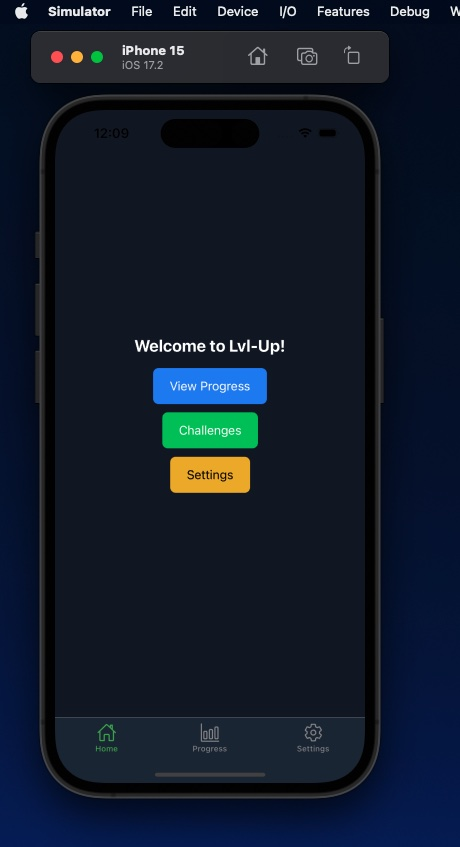
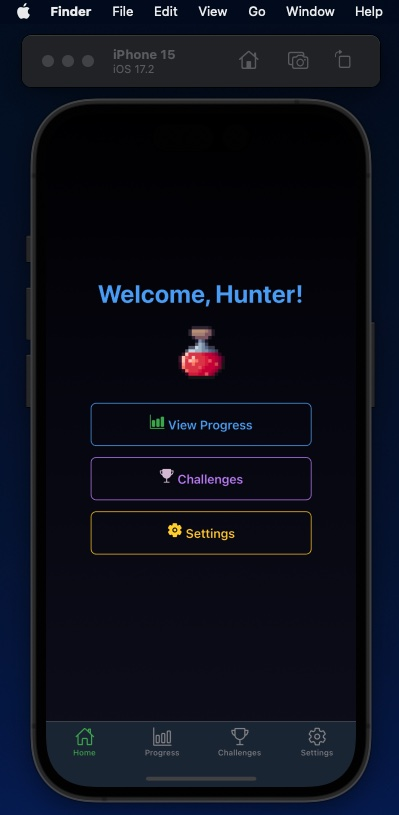
challenges (#4)
* challenges

* screen

diff --git a/expo/app/index.tsx b/expo/app/index.tsx
@@ -1,5 +1,7 @@
+import { Ionicons } from '@expo/vector-icons';
+import { LinearGradient } from 'expo-linear-gradient';
 import { useRouter } from 'expo-router';
-import { View, Text, Pressable } from 'react-native';
+import { View, Text, Pressable, Image } from 'react-native';
 
 import '../global.css';
 
@@ -7,26 +9,53 @@ export default function HomeScreen() {
   const router = useRouter();
 
   return (
-    <View className="flex-1 items-center justify-center bg-gray-900 p-6">
-      <Text className="mb-4 text-2xl font-bold text-white">Welcome to Lvl-Up!</Text>
+    <LinearGradient
+      colors={['#000000', '#0A0A1A']}
+      style={{ flex: 1 }} // Ensures it covers the full screen
+    >
+      <View className="flex-1 items-center justify-center p-6">
+        {/* Title with glowing effect */}
+        <Text className="shadow-blue-glow mb-4 text-4xl font-bold text-blue-400">
+          Welcome, Hunter!
+        </Text>
 
-      <Pressable
-        className="mb-3 rounded-lg bg-blue-500 px-6 py-3"
-        onPress={() => router.push('/progress')}>
-        <Text className="text-lg text-white">View Progress</Text>
-      </Pressable>
+        {/* Health Potion Image */}
+        <Image
+          source={require('../assets/pot.png')}
+          className="shadow-red-glow mb-6 h-24 w-24"
+          resizeMode="contain"
+        />
 
-      <Pressable
-        className="mb-3 rounded-lg bg-green-500 px-6 py-3"
-        onPress={() => router.push('/challenges')}>
-        <Text className="text-lg text-white">Challenges</Text>
-      </Pressable>
+        {/* Button Container */}
+        <View className="w-full max-w-xs gap-4">
+          {/* Progress Button */}
+          <Pressable
+            className="w-full items-center justify-center rounded-lg border border-blue-400 bg-transparent p-4 transition-all duration-200 hover:scale-105 active:scale-95"
+            onPress={() => router.push('/progress')}>
+            <Text className="text-lg font-semibold text-blue-400">
+              <Ionicons name="bar-chart" size={20} color="#4CAF50" /> View Progress
+            </Text>
+          </Pressable>
 
-      <Pressable
-        className="rounded-lg bg-yellow-500 px-6 py-3"
-        onPress={() => router.push('/settings')}>
-        <Text className="text-lg text-black">Settings</Text>
-      </Pressable>
-    </View>
+          {/* Challenges Button */}
+          <Pressable
+            className="w-full items-center justify-center rounded-lg border border-purple-400 bg-transparent p-4 transition-all duration-200 hover:scale-105 active:scale-95"
+            onPress={() => router.push('/challenges')}>
+            <Text className="text-lg font-semibold text-purple-400">
+              <Ionicons name="trophy" size={20} color="#D8BFD8" /> Challenges
+            </Text>
+          </Pressable>
+
+          {/* Settings Button */}
+          <Pressable
+            className="w-full items-center justify-center rounded-lg border border-yellow-400 bg-transparent p-4 transition-all duration-200 hover:scale-105 active:scale-95"
+            onPress={() => router.push('/settings')}>
+            <Text className="text-lg font-semibold text-yellow-400">
+              <Ionicons name="settings" size={20} color="#FFD700" /> Settings
+            </Text>
+          </Pressable>
+        </View>
+      </View>
+    </LinearGradient>
   );
 }

diff --git a/expo/app/challenges.tsx b/expo/app/challenges.tsx
@@ -1,0 +1,41 @@
+import { View, Text, Pressable, FlatList } from 'react-native';
+
+const challenges = [
+  { id: '1', title: 'Complete 5 Workouts', progress: 3, total: 5 },
+  { id: '2', title: 'Read for 30 Minutes', progress: 20, total: 30 },
+  { id: '3', title: 'Meditate for 10 Minutes', progress: 10, total: 10 },
+  { id: '4', title: 'Drink 2L of Water', progress: 1.5, total: 2 },
+];
+
+export default function ChallengesScreen() {
+  return (
+    <View className="flex-1 items-center justify-center bg-gray-900 p-6">
+      <Text className="mb-4 text-2xl font-bold text-white">Challenges</Text>
+
+      <FlatList
+        data={challenges}
+        keyExtractor={(item) => item.id}
+        renderItem={({ item }) => (
+          <View className="mb-4 w-full rounded-lg bg-gray-800 p-4">
+            <Text className="text-lg font-semibold text-white">{item.title}</Text>
+            <View className="mt-2 h-2 w-full bg-gray-700">
+              <View
+                style={{ width: `${(item.progress / item.total) * 100}%` }}
+                className="h-full bg-green-500"
+              />
+            </View>
+            <Text className="mt-2 text-white">
+              {item.progress} / {item.total}
+            </Text>
+          </View>
+        )}
+      />
+
+      <Pressable
+        className="mt-6 rounded-lg bg-blue-500 px-6 py-3"
+        onPress={() => console.log('View More Challenges')}>
+        <Text className="text-lg text-white">View More</Text>
+      </Pressable>
+    </View>
+  );
+}

diff --git a/expo/app/_layout.tsx b/expo/app/_layout.tsx
@@ -28,6 +28,15 @@ export default function Layout() {
         }}
       />
       <Tabs.Screen
+        name="challenges"
+        options={{
+          title: 'Challenges',
+          tabBarIcon: ({ color, size }) => (
+            <Ionicons name="trophy-outline" size={size} color={color} />
+          ),
+        }}
+      />
+      <Tabs.Screen
         name="settings"
         options={{
           title: 'Settings',

diff --git a/expo/README.md b/expo/README.md
@@ -2,8 +2,6 @@
 
 LVLUP is a **Solo Leveling-inspired to-do app** that gamifies productivity. Complete tasks, gain XP, and level up your character as you progress!
 
-<img src='./assets/screen-20250307.jpg' width='200' >
-
 ## Features
 - 🎮 **Leveling System**: Earn XP and level up by completing tasks.
 - ✅ **Task Management**: Organize tasks as "Main Quests" and "Side Quests."

diff --git a/README.md b/README.md
@@ -1,8 +1,8 @@
 # LVLUP - Gamified To-Do App
 
-<img src='./expo/assets/pot.png' width='50' alt='logo'>
-
 LVLUP is a **Solo Leveling-inspired to-do app** that gamifies productivity. Complete tasks, gain XP, and level up your character as you progress!
+
+<img src='./expo/assets/screen-20250307.jpg' width='200' >
 
 The mobile app can be found in the `/expo` directory.
 
